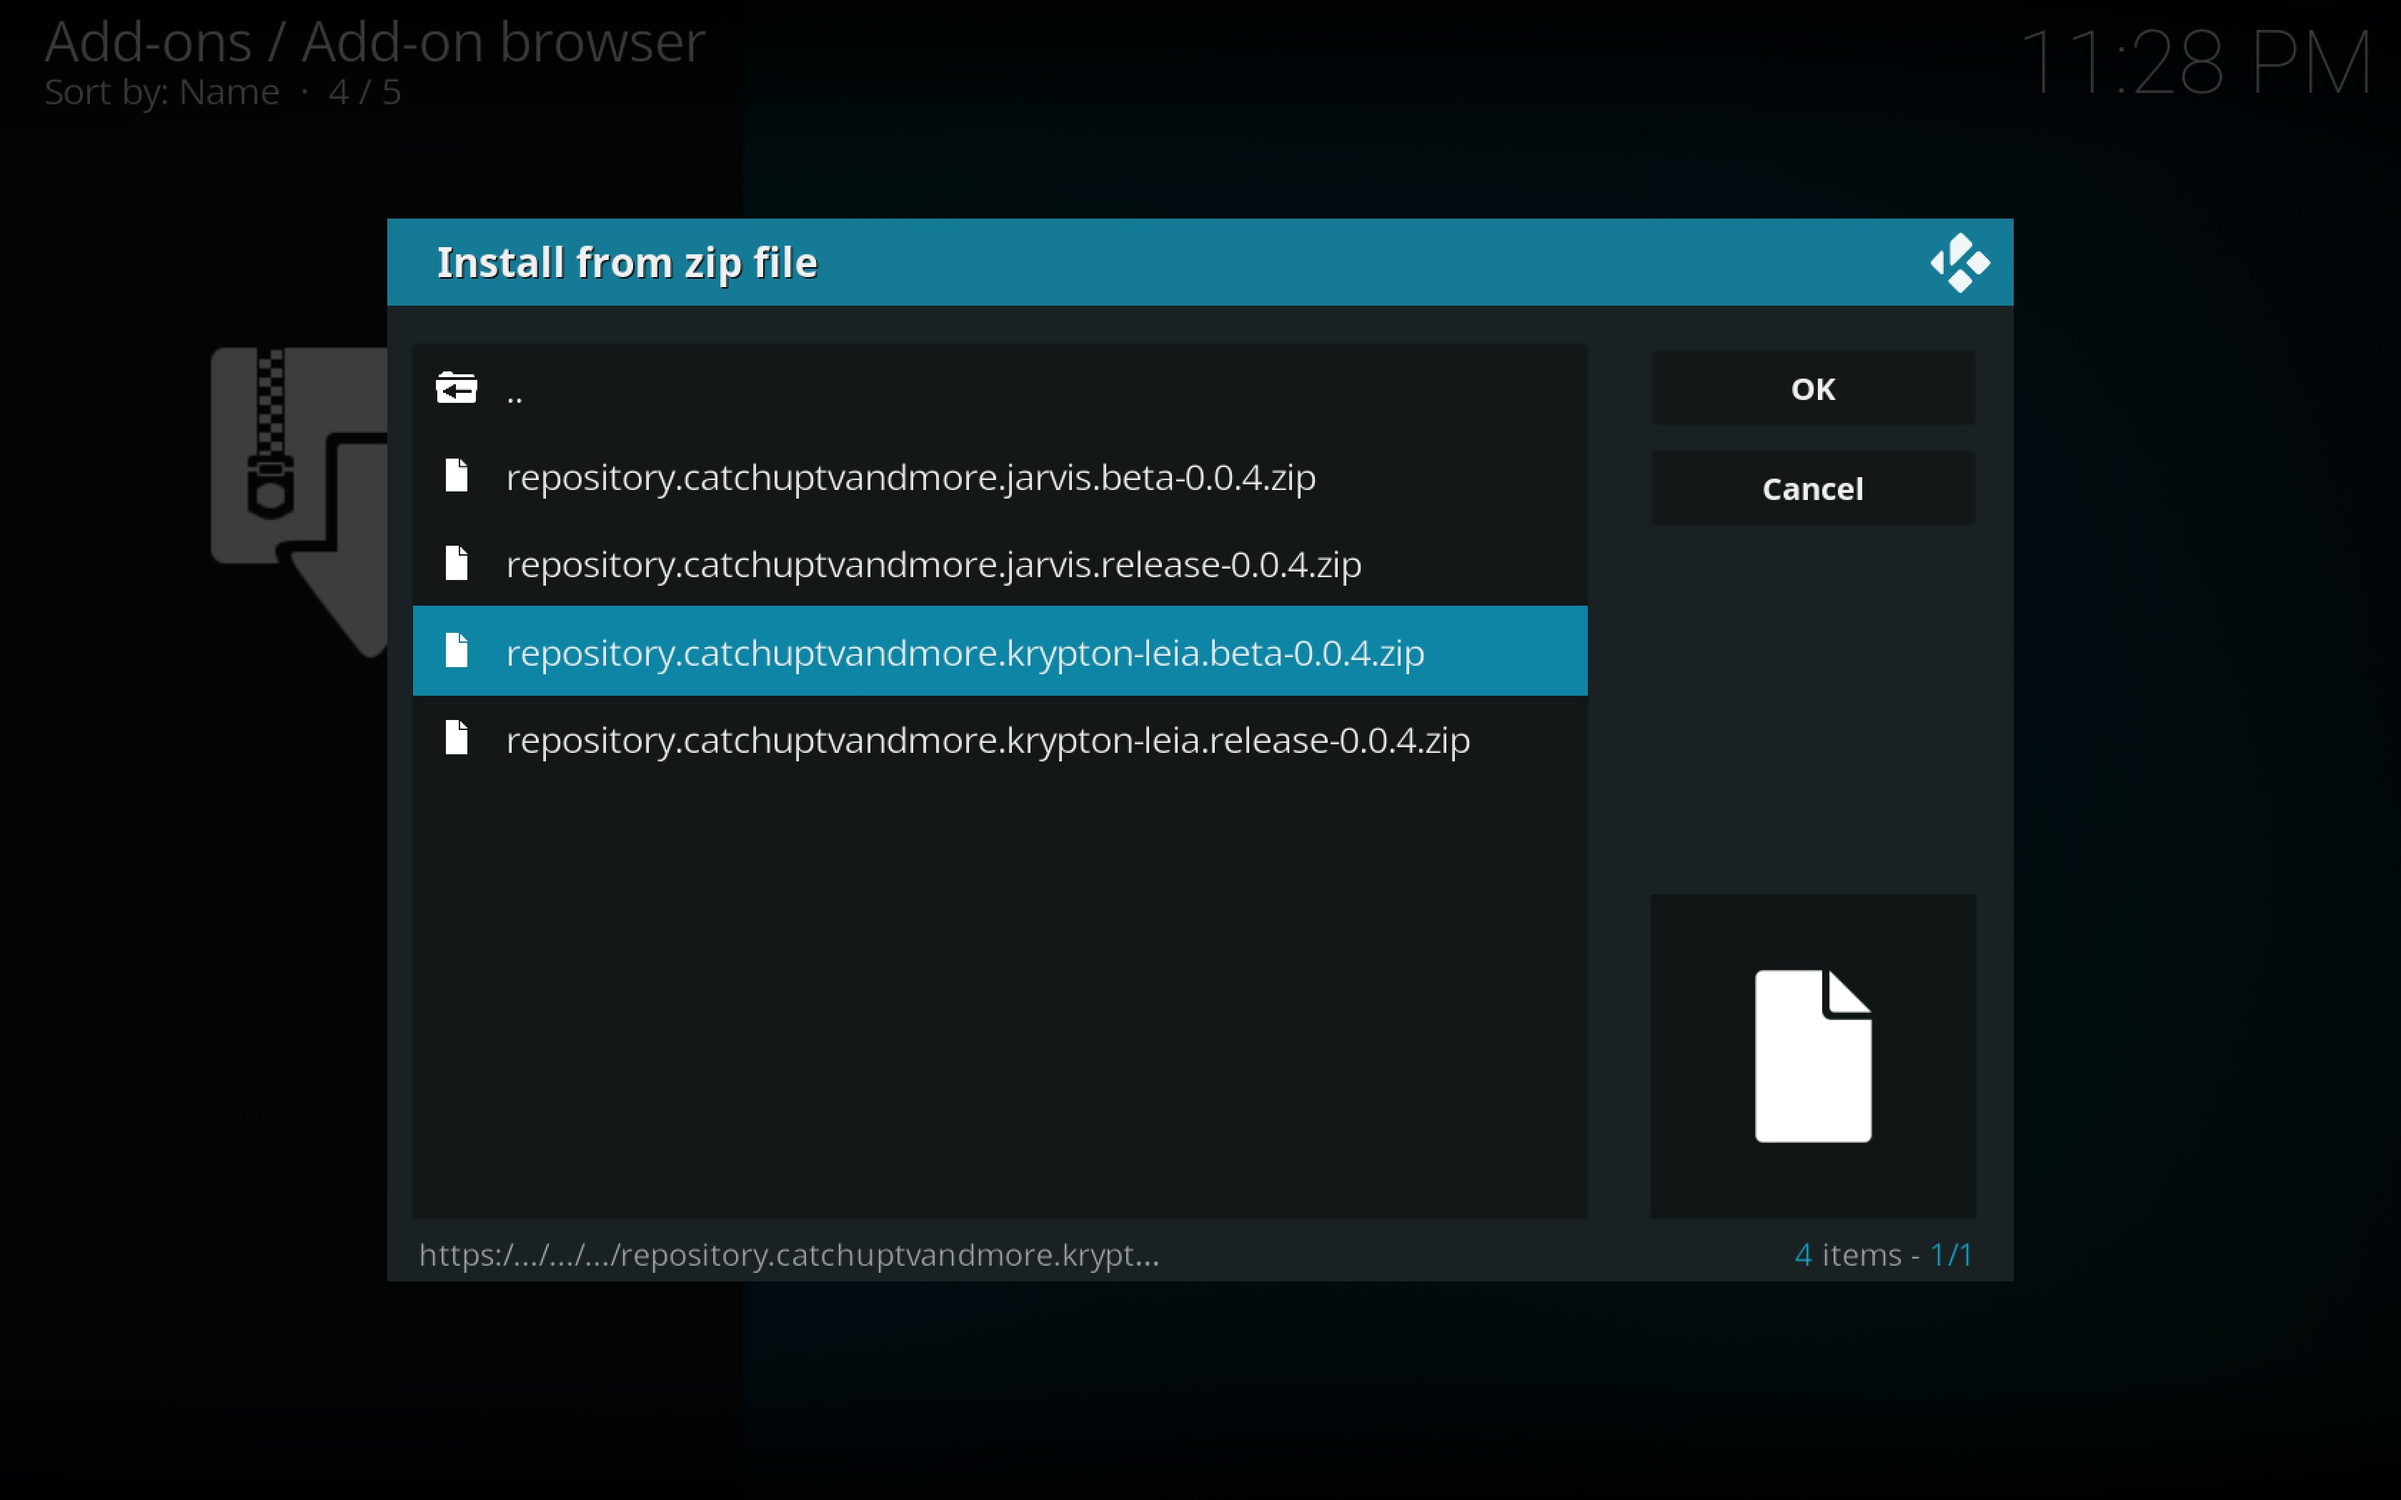
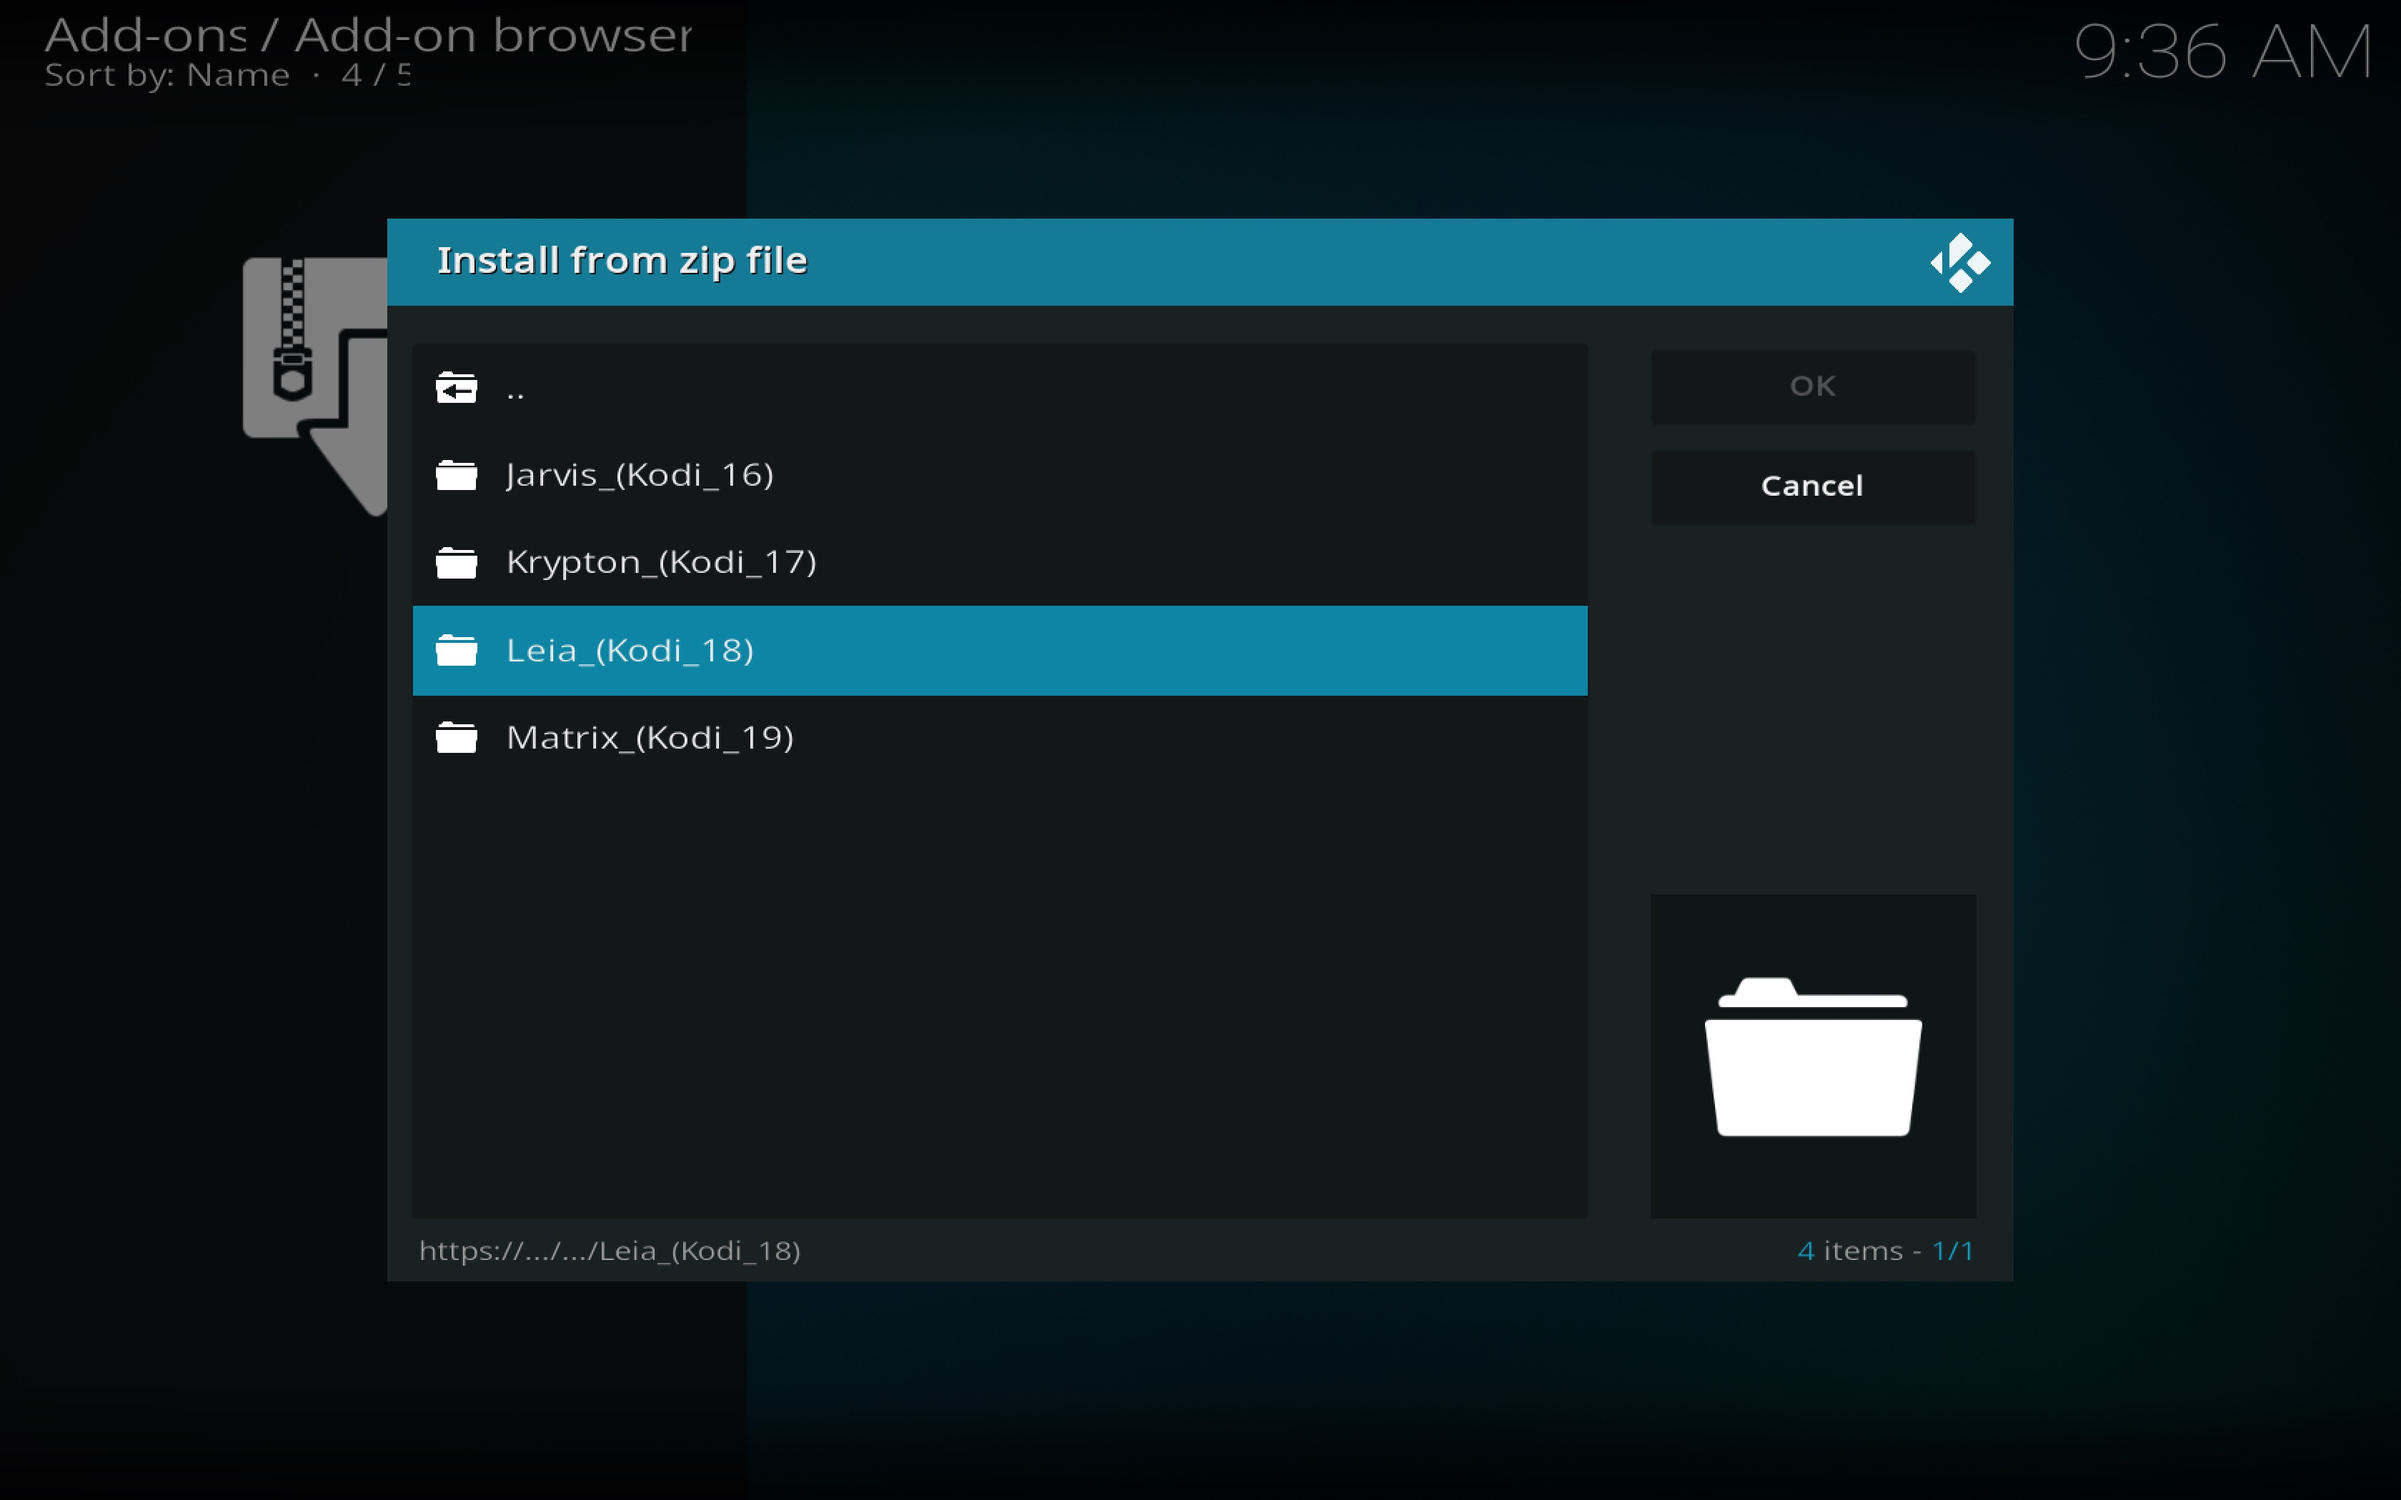
Modify source URL

diff --git a/_i18n/fr/installation.md b/_i18n/fr/installation.md
@@ -34,7 +34,7 @@ Puis dans *Gestionnaire de fichiers*.
 
 Choisir *Ajouter une source* et remplir les champs comme indiqué sur l'image :
 
-* **URL :** https://repo.cecchettosylvain.fr/zip/
+* **URL :** https://catch-up-tv-and-more.github.io/repo/
 * **Nom :** Catch-Up TV & More source
 
 ![](/img/installation/3_fr.jpeg)
@@ -65,19 +65,15 @@ Installer le dépôt à partir du fichier zip.
 
 ![](/img/installation/install_from_zip_3_fr.jpeg)
 
-Il convient enfin de choisir le dépôt à installer.
+Sélectionnez votre version de Kodi.
 
-* Si vous utilisez **Kodi Jarvis (16)** installez une des versions `repository.catchuptvandmore.jarvis.XXXXXX`.
+Enfin, vous pouvez choisir entre le canal de distribution `release` et `beta`.
 
-* Si vous utilisez **Kodi Krypton (17), Leia (18) ou Matrix (19)** installez une des versions `repository.catchuptvandmore.krypton-leia-matrix.XXXXXX`.
+Si vous choisissez le canal `beta`, Catch-Up TV & More sera mis à jour automatiquement à chaque modification du code du plugin sur Github ; vous aurez ainsi toujours la dernière version et les derniers correctifs/améliorations du plugin. Cependant vous êtes aussi exposé aux différents bugs et instabilités que les dernières améliorations qui ne sont pas encore pleinement testées peuvent engendrer.
 
-Enfin, vous pouvez choisir entre la version `release` et `beta` du dépôt.
+Le canal `release` contient uniquement les versions majeures du plugin vous assurant ainsi une meilleurs stabilité. Cependant la fréquence des mises à jours est moins importante que sur le canal `beta`.
 
-Si vous choisissez la version `beta`, Catch-Up TV & More sera mis à jour automatiquement à chaque modification du code du plugin sur Github ; vous avez ainsi toujours la dernière version et les derniers correctifs/améliorations du plugin. Cependant vous êtes aussi exposé aux différents bugs et instabilités que les dernières améliorations qui ne sont pas encore pleinement testées peuvent engendrer.
-
-La version `release` contient uniquement les versions majeures du plugin vous assurant ainsi une meilleurs stabilité. Cependant la fréquence des mises à jours est moins importante que la version `beta`.
-
-> La version `release` correspond à la branche `master` du dépôt GitHub tandis que la version `beta` correspond à la branche `dev`. 
+> La canal `release` correspond à la branche `master` du dépôt GitHub tandis que le canal `beta` correspond à la branche `dev`.
 
 ### 3. Installer Catch-Up TV & More depuis le dépôt officiel
 

diff --git a/_i18n/en/installation.md b/_i18n/en/installation.md
@@ -34,7 +34,7 @@ Then in *File Manager*.
 
 Choose *Add source* and fill in the fields as shown in the image:
 
-* **URL:** https://repo.cecchettosylvain.fr/zip/
+* **URL:** https://catch-up-tv-and-more.github.io/repo/
 * **Name:** Catch-Up TV & More source
 
 ![](/img/installation/3_fr.jpeg)
@@ -65,19 +65,15 @@ Install the repository from the zip file.
 
 ![](/img/installation/install_from_zip_3_fr.jpeg)
 
-Finally, choose the repository to install.
+Choose your Kodi version.
 
-* If you use Kodi **Jarvis (16)** install one of the `repository.catchuptvandmore.jarvis.XXXXXX` versions.
+Finally, you can choose between the `stable` and `beta` distribution channel.
 
-* If you are using **Kodi Krypton (17), Leia (18) or Matrix (19)** install one of the `repository.catchuptvandmore.krypton-leia-matrix.XXXXXX` versions.
+If you choose the `beta` channel, Catch-Up TV & More will be updated automatically each time the plugin code is changed to Github. It means that you will always have the latest version and the latest bug fixes/improvements. However you are also exposed to various bugs and instabilities because the latest improvements of beta versions are not fully tested.
 
-Finally, you can choose between the `release` and` beta` version of the repository.
+The `release` channel only contains the major versions of the plugin ensuring you a better stability. However the frequency of updates is less important than the `beta` channel.
 
-If you choose the beta version, Catch-Up TV & More will be updated automatically each time the plugin code is changed to Github ; you always have the latest version and the latest bug fixes/improvements. However you are also exposed to various bugs and instabilities that the latest improvements that are not yet fully tested can spawn.
-
-The `release` version only contains the major versions of the plugin ensuring you a better stability. However the frequency of updates is less important than the `beta` version.
-
-> The `release` version corresponds to the `master` branch of the GitHub repository while the `beta` version corresponds to the `dev` branch.
+> The `release` channel corresponds to the `master` branch of the GitHub repository while the `beta` channel corresponds to the `dev` branch.
 
 ### 3. Install Catch-Up TV & More from the official repository
 
